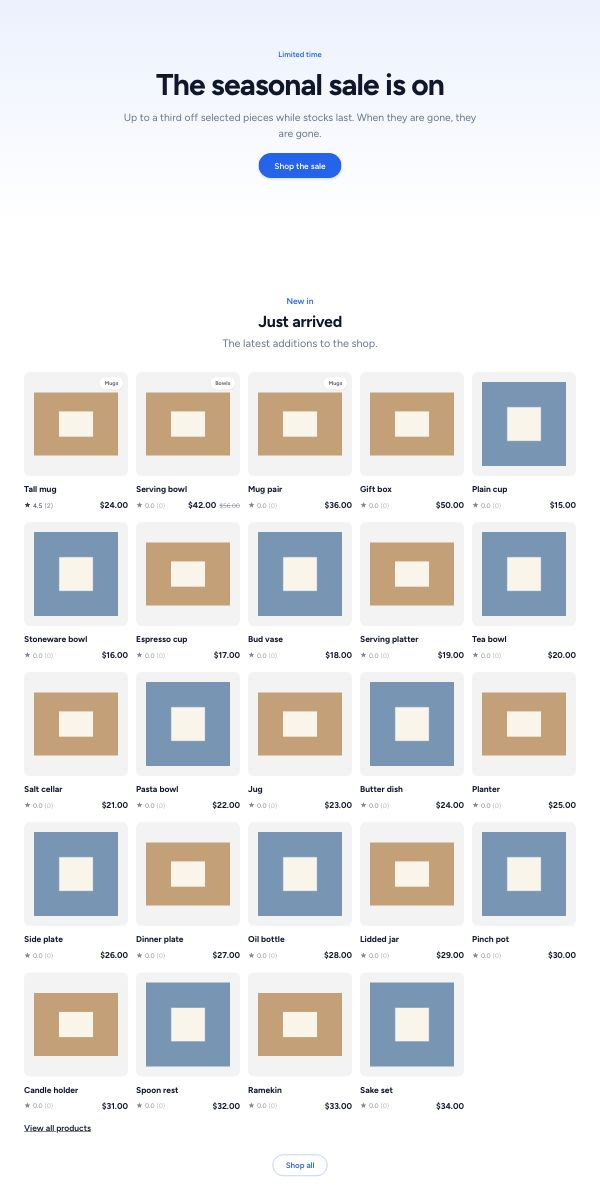
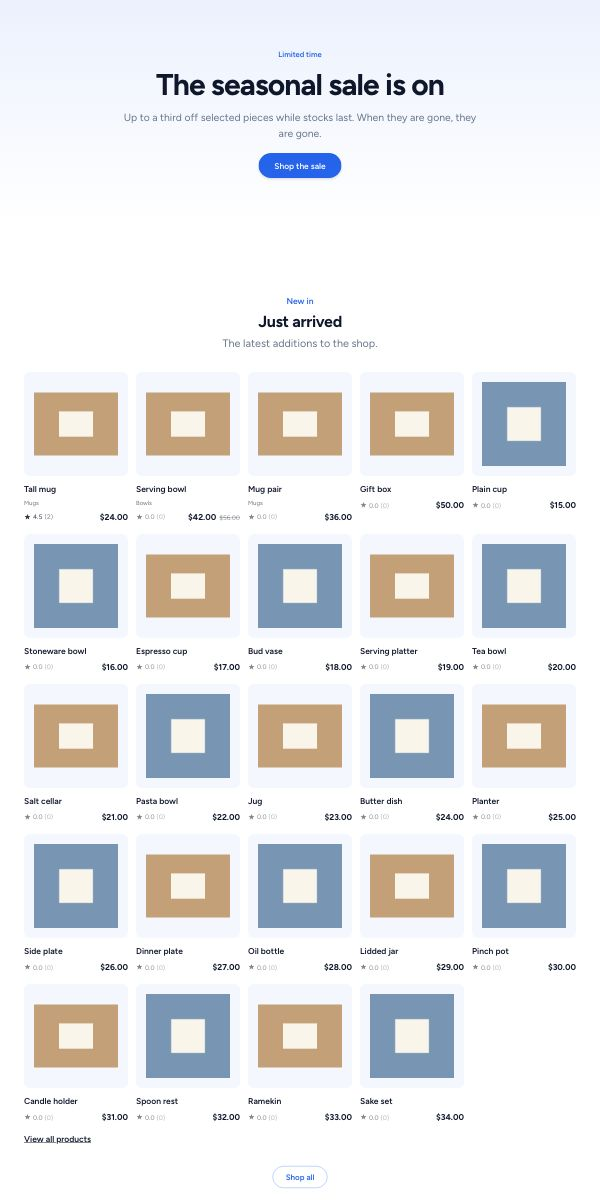
test(commerce): the old client-filled grid leaves the browser proofs, thumbnail build and README; shop pattern thumbnails show the server-rendered cards

Changed region(s): [[0.03, 0.4008, 0.6, 0.9558], [0.6, 0.4317, 0.96, 0.9558], [0.45, 0.9558, 0.54, 0.9867]]

diff --git a/tools/style-proofs/tests/shop-readiness.spec.js b/tools/style-proofs/tests/shop-readiness.spec.js
@@ -7,13 +7,7 @@ const { test, expect } = require('@playwright/test');
 const { waitForShopReady } = require('../shop-readiness.js');
 
 const PAGE = '/tools/style-proofs/pages/shop-readiness.html';
-const IMAGE = '/tests/fixtures/commerce/product-cover.png';
 
-const grid = (cover) => ({
-  items: [{ name: 'Stoneware bowl', url: '#', cover_url: cover, category_name: 'Bowls',
-    price_formatted: '$32.00', cart_mode: 'link', direct_variant_uuid: null }],
-  view_all_url: '/shop',
-});
 const featured = { product: { name: 'Stoneware bowl', url: '#', price_formatted: '$32.00', currency: 'USD' } };
 const cart = { available: true, mode: 'link', product_url: '#' };
 
@@ -31,13 +25,12 @@ test.beforeEach(({ browserName }) => {
 });
 
 test('ready when every block has painted', async ({ page }) => {
-  await open(page, { 'product-grid': json(grid(IMAGE)), 'featured-product': json(featured), 'add-to-cart': json(cart) });
+  await open(page, { 'featured-product': json(featured), 'add-to-cart': json(cart) });
   await waitForShopReady(page, 5000);
 });
 
 test('not ready when one block fails', async ({ page }) => {
   await open(page, {
-    'product-grid': json(grid(IMAGE)),
     'featured-product': (route) => route.fulfill({ status: 500, body: 'boom' }),
     'add-to-cart': json(cart),
   });
@@ -45,17 +38,18 @@ test('not ready when one block fails', async ({ page }) => {
 });
 
 test('not ready while an image is missing', async ({ page }) => {
-  await open(page, { 'product-grid': json(grid('/missing-cover.png')), 'featured-product': json(featured), 'add-to-cart': json(cart) });
-  await expect(waitForShopReady(page, 1500)).rejects.toThrow(/product-grid/);
+  await page.route('**/product-cover.png', (route) => route.fulfill({ status: 404, body: '' }));
+  await open(page, { 'featured-product': json(featured), 'add-to-cart': json(cart) });
+  await expect(waitForShopReady(page, 1500)).rejects.toThrow(/featured-product/);
 });
 
 test('not ready while loading shows', async ({ page }) => {
-  await open(page, { 'product-grid': json(grid(IMAGE)), 'featured-product': json(featured), 'add-to-cart': () => {} });
+  await open(page, { 'featured-product': json(featured), 'add-to-cart': () => {} });
   await expect(waitForShopReady(page, 1500)).rejects.toThrow(/add-to-cart/);
 });
 
 test('not ready when a shop block is missing from the page', async ({ page }) => {
-  await open(page, { 'product-grid': json(grid(IMAGE)), 'featured-product': json(featured), 'add-to-cart': json(cart) });
-  await expect(waitForShopReady(page, 1500, 4)).rejects.toThrow(/expected 4 shop blocks, found 3/);
-  await waitForShopReady(page, 1500, 3);
+  await open(page, { 'featured-product': json(featured), 'add-to-cart': json(cart) });
+  await expect(waitForShopReady(page, 1500, 3)).rejects.toThrow(/expected 3 shop blocks, found 2/);
+  await waitForShopReady(page, 1500, 2);
 });

diff --git a/tools/runtime-browser/tests/shop-block-selection.spec.js b/tools/runtime-browser/tests/shop-block-selection.spec.js
@@ -58,32 +58,6 @@ for (const [how, fail] of [
   });
 }
 
-// The Product grid on a failed request: it says the products could not be loaded, never the
-// "Loading products…" that hydration revealed; an answer still paints its products.
-const GRID = '/tools/runtime-browser/fixtures/shop-grid.html';
-const grid = (page) => page.locator('[data-shop-block="product-grid"]');
-
-for (const [how, fail] of [
-  ['a server error', (route) => route.fulfill({ status: 500, contentType: 'text/html', body: '<h1>Oops</h1>' })],
-  ['no answer', (route) => route.abort('failed')],
-]) {
-  test(`${how} leaves no loading line in a product grid`, async ({ page }) => {
-    await page.route('**/_shop/blocks/product-grid*', fail);
-    await page.goto(GRID);
-    await expect(grid(page).getByText('Products could not be loaded.')).toBeVisible();
-    await expect(page.getByText('Loading products…')).toBeHidden();
-    await expect(grid(page).locator('[data-shop-grid-items]')).toBeHidden();
-  });
-}
-
-test('a product grid that is answered paints its products', async ({ page }) => {
-  const item = { name: 'Tall mug', url: '/shop/products/tall-mug', price_formatted: '$24.00', currency: 'USD' };
-  await page.route('**/_shop/blocks/product-grid*', (route) => route.fulfill({ json: { items: [item] } }));
-  await page.goto(GRID);
-  await expect(grid(page).getByText('Tall mug')).toBeVisible();
-  await expect(page.getByText('Loading products…')).toBeHidden();
-});
-
 // Without JavaScript, on real pages (scripts/build-shop-block-proof-fixtures, gitignored): an
 // unlinked page and a page naming a deleted product. Neither shows "Loading…" — nothing would ever
 // finish it — and each block offers a link to the shop, never a product link that may be gone.
@@ -99,7 +73,7 @@ test.describe('without JavaScript', () => {
     test(`the ${name} page shows a link to the shop and no loading line`, async ({ page }) => {
       await page.goto(`/tools/runtime-browser/fixtures/shop-block-selection/${name}.html`);
       await expect(page.getByText('Loading…').first()).toBeHidden();
-      // The page's product grid neither: its loading line ships hidden too.
+      // The page's product grid neither: it renders on the server, with no loading line.
       await expect(page.getByText('Loading products…')).toBeHidden();
       // A blank block (the unlinked page) may have no product at all, so its line promises none.
       const cartLine = name === 'gone' ? 'Browse the shop to add this product to your cart' : 'Browse the shop';

diff --git a/tools/style-proofs/shop-readiness.js b/tools/style-proofs/shop-readiness.js
@@ -2,8 +2,9 @@
 
 // Readiness of the JavaScript-painted shop blocks, for a thumbnail that pictures them
 // (sections and templates design §6): a picture is taken only once EVERY shop block on the page
-// has painted — a grid its items, a featured product its body, an add to cart its form or its
-// link — no loading, empty or error line is showing, and every image has loaded. A page where one
+// has painted — a featured product its body, an add to cart its form or its link — no loading,
+// empty or error line is showing, and every image has loaded. (A Product grid renders on the
+// server: it is not one of these.) A page where one
 // block painted and another did not is not ready.
 
 /** Runs in the page: null when ready, else a reason naming the first block that is not. */
@@ -20,14 +21,11 @@ function unready(expected) {
           return `it still says "${el.textContent.trim()}"`;
         }
       }
-      for (const sel of ['[data-shop-grid-empty]', '[data-shop-featured-empty]', '[data-shop-add-to-cart-status]']) {
+      for (const sel of ['[data-shop-featured-empty]', '[data-shop-add-to-cart-status]']) {
         const el = block.querySelector(sel);
         if (visible(el)) return `it shows "${el.textContent.trim()}"`;
       }
-      if (kind === 'product-grid') {
-        const items = block.querySelector('[data-shop-grid-items]');
-        if (!visible(items) || items.children.length === 0) return 'no product has painted';
-      } else if (kind === 'featured-product') {
+      if (kind === 'featured-product') {
         if (!visible(block.querySelector('[data-shop-featured-body]'))) return 'its product has not painted';
       } else if (kind === 'add-to-cart') {
         const form = block.querySelector('[data-shop-add-to-cart-form]');

diff --git a/tools/style-proofs/pages/shop-readiness.html b/tools/style-proofs/pages/shop-readiness.html
@@ -5,15 +5,12 @@
      capture's readiness check (tests/shop-readiness.spec.js): each test answers the blocks' data
      endpoints itself. -->
 <main>
-  <div class="thallo-block thallo-block-product-grid" data-shop-block="product-grid" data-source="newest"
-       data-category-slug="" data-tag-slug="" data-products="" data-page-size="24">
-    <ul class="thallo-block-product-grid__items" data-shop-grid-items hidden></ul>
-    <p class="thallo-block-product-grid__empty" data-shop-grid-empty>Loading products…</p>
-  </div>
   <div class="thallo-block thallo-block-featured-product" data-shop-block="featured-product"
        data-product-slug="stoneware-bowl" data-entry-uuid="">
     <div class="thallo-block-featured-product__body" data-shop-featured-body hidden></div>
     <p class="thallo-block-featured-product__empty" data-shop-featured-empty hidden>Loading…</p>
+    <!-- An image the block holds: the picture waits for it to load. -->
+    <img src="/tests/fixtures/commerce/product-cover.png" alt="" width="40" height="40">
   </div>
   <div class="thallo-block thallo-block-add-to-cart" data-shop-block="add-to-cart"
        data-product-slug="stoneware-bowl" data-entry-uuid="">

diff --git a/admin/e2e/tests/smoke.spec.ts b/admin/e2e/tests/smoke.spec.ts
@@ -8,8 +8,8 @@ test('the Design page loads the fixture entry and its stage', async ({ page }) =
   // call to action and its two buttons, whose button-only slot the refusal proof drops onto, plus the
   // two grids the outline proof measures: an empty one, and one with a heading spanning two tracks,
   // plus the hover preview's blocks: a Links block, a Container holding another, and a Social links
-  // row with its two links.
-  await expect(stage(page).locator('[data-thallo-block]')).toHaveCount(33)
+  // row with its two links, plus a Product grid, whose Style tab the parts proof opens.
+  await expect(stage(page).locator('[data-thallo-block]')).toHaveCount(34)
   const h = await hooks(page)
   expect(h.currentSequence).toBe(0)
   expect(h.accepted).toEqual({ epoch: 'proof', revision: 1 }) // the page's first apply

diff --git a/admin/e2e/tests/slot-add.spec.ts b/admin/e2e/tests/slot-add.spec.ts
@@ -50,8 +50,9 @@ test('the placeholder after the last body block arms the end of body and a tile 
   expect(h.history[0]!.ops[0]).toMatchObject({
     type: 'InsertBlock',
     // The end of body: two sections, two siblings, the grid container, the cta, the outline
-    // proof's two grids, the prose block and the hover preview's three blocks precede it.
-    position: { parent: null, slot: 'body', index: 12 },
+    // proof's two grids, the prose block, the hover preview's three blocks and the Product grid
+    // precede it.
+    position: { parent: null, slot: 'body', index: 13 },
     block: { type: 'heading' },
   })
 })

diff --git a/admin/e2e/tests/siblings-across-index-shift.spec.ts b/admin/e2e/tests/siblings-across-index-shift.spec.ts
@@ -48,6 +48,7 @@ test('two selected headings drag together into an empty column with shifted indi
     'hovlinks0001',
     'hovnest00001',
     'hovsocial001',
+    'gridblock0e2',
   ])
   expect(
     idsIn(h.document, ['body', 1, 'data', 'content', 0, 'data', 'content', 1, 'data', 'content']),

diff --git a/admin/e2e/tests/siblings-down-in-place.spec.ts b/admin/e2e/tests/siblings-down-in-place.spec.ts
@@ -43,6 +43,7 @@ test('Alt+ArrowDown moves the selected sections past the heading that follows th
     'hovlinks0001',
     'hovnest00001',
     'hovsocial001',
+    'gridblock0e2',
   ])
   expect(h.selection.ids).toEqual(['sect00000001', 'sect00000002'])
 

diff --git a/admin/e2e/tests/palette-click.spec.ts b/admin/e2e/tests/palette-click.spec.ts
@@ -38,6 +38,7 @@ test('the stage + arms the tab after the container and Enter inserts the first m
     'hovlinks0001',
     'hovnest00001',
     'hovsocial001',
+    'gridblock0e2',
   ])
   await expect(strip).toHaveCount(0) // consumed
 })

diff --git a/admin/e2e/tests/pattern-library.spec.ts b/admin/e2e/tests/pattern-library.spec.ts
@@ -27,6 +27,7 @@ const BODY = [
   'hovlinks0001',
   'hovnest00001',
   'hovsocial001',
+  'gridblock0e2',
 ]
 
 async function openView(page: Page, view: 'sections' | 'pages'): Promise<void> {

diff --git a/admin/e2e/tests/shop-patterns.spec.ts b/admin/e2e/tests/shop-patterns.spec.ts
@@ -19,6 +19,7 @@ const BODY = [
   'hovlinks0001',
   'hovnest00001',
   'hovsocial001',
+  'gridblock0e2',
 ]
 
 type Block = { id: string; type: string; data: Record<string, unknown> }

diff --git a/scripts/lib/shop-thumbnails.php b/scripts/lib/shop-thumbnails.php
@@ -34,13 +34,6 @@ function shop_block_responses(string $html, ContainerInterface $container, array
         /** @var DOMElement $node */
         $block = $node->getAttribute('data-shop-block');
         $params = match ($block) {
-            'product-grid' => [
-                'source' => $node->getAttribute('data-source') ?: 'newest',
-                'category_slug' => $node->getAttribute('data-category-slug'),
-                'tag_slug' => $node->getAttribute('data-tag-slug'),
-                'products' => $node->getAttribute('data-products'),
-                'page_size' => $node->getAttribute('data-page-size') ?: '24',
-            ],
             'featured-product', 'add-to-cart' => [
                 'product_slug' => $node->getAttribute('data-product-slug'),
                 'entry_uuid' => $node->getAttribute('data-entry-uuid'),
@@ -53,7 +46,6 @@ function shop_block_responses(string $html, ContainerInterface $container, array
         $path = '/_shop/blocks/' . $block;
         $request = Request::create($path, 'GET', $params);
         $response = match ($block) {
-            'product-grid' => $controller->productGrid($request),
             'featured-product' => $controller->featuredProduct($request),
             'add-to-cart' => $controller->addToCart($request),
         };
@@ -75,6 +67,25 @@ function shop_block_responses(string $html, ContainerInterface $container, array
     }
 
     return $responses;
+}
+
+/**
+ * The page's own product images — a Product grid's cards render on the server — pointed at the
+ * committed images they came from, as the block responses' covers are: a media URL resolves nowhere
+ * under `file://`. Every attribute value naming a seeded blob becomes that file.
+ *
+ * @param array<string,string> $imageFiles blob uuid => repo-relative committed file
+ */
+function shop_local_images(string $html, array $imageFiles, string $root): string
+{
+    foreach ($imageFiles as $blob => $file) {
+        $html = (string) preg_replace(
+            '~"[^"<>]*' . preg_quote($blob, '~') . '[^"<>]*"~',
+            '"' . htmlspecialchars('file://' . $root . '/' . $file, ENT_QUOTES) . '"',
+            $html,
+        );
+    }
+    return $html;
 }
 
 /**
